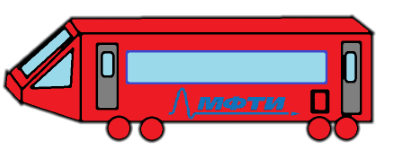
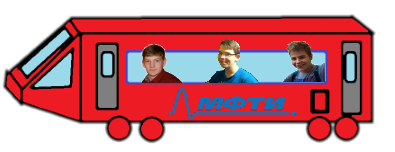
Add conductor

Changed region(s): [[0.5165, 0.2632, 0.6684, 0.5526], [0.3342, 0.2895, 0.4861, 0.5526], [0.6987, 0.2632, 0.8203, 0.5526]]

diff --git a/Game/Game/Code/Main.cpp b/Game/Game/Code/Main.cpp
@@ -10,14 +10,19 @@
 #include "Objects//Background.h"
 #include "Objects//Train.h"
 #include "Objects//Hero.h"
+#include "Objects//Conductor.h"
 
 int main()
 {
 	Engine engine;
 
-	engine.addObject(new Background (sf::Sprite(*(texturesMap["Background"]))));
+	//engine.addObject(new Background (sf::Sprite(*(texturesMap["Background"]))));
+	engine.addObject(new Background(Vector(-100, 0), Vector(-200, 0), 1000, sf::Sprite(*(texturesMap["Background"])), 0));
 	engine.addObject(new Train(Vector(1100, 250), Vector(-200, 0), 100, sf::Sprite(*(texturesMap["Train"])), 5));
 	engine.addObject(new Train(Vector(1000, 250), Vector(-200, 0), 100, sf::Sprite(*(texturesMap["Train"])), 3));
+	engine.addObject(new Conductor(Vector(1000, 250), Vector(-200, 0), 100, sf::Sprite(*(texturesMap["Conductor"])), 1));
+	
+
 	engine.run();
 	
 	system("pause");

diff --git a/Game/Game/Includes/Objects/Conductor.h b/Game/Game/Includes/Objects/Conductor.h
@@ -2,13 +2,35 @@
 
 #include "Objects\Barrier.h"
 
-class Conductor : public Barrier
+class Conductor : public Object
 {
 public:
+	Conductor(Vector coordinate, Vector velocity, size_t weight, sf::Sprite sprite, size_t level);
+
 	void Control();
-	void Logic();
-	void Physic();
+	int  Logic();
 	void Draw();
 private:
 
 };
+
+Conductor::Conductor(Vector coordinate, Vector velocity, size_t weight, sf::Sprite sprite, size_t level) :
+	Object(coordinate, velocity, weight, sprite, level)
+{}
+
+void Conductor::Control()
+{
+
+}
+
+int Conductor::Logic()
+{
+
+	return 0;
+}
+
+void Conductor::Draw()
+{
+	sprite_.setPosition( (float) coordinate_.GetX(), (float)coordinate_.GetY());
+	engine_->getEngineWindow()->draw(sprite_);
+}

diff --git a/Game/Game/Includes/Objects/Background.h b/Game/Game/Includes/Objects/Background.h
@@ -6,6 +6,7 @@ class Background : public Object
 {
 public:
 	Background(sf::Sprite sprite);
+	Background(Vector coordinate, Vector velocity, size_t weight, sf::Sprite sprite, size_t level);
 	~Background();
 	void Control();
 	int Logic();
@@ -13,6 +14,10 @@ public:
 private:
 
 };
+
+Background::Background(Vector coordinate, Vector velocity, size_t weight, sf::Sprite sprite, size_t level) :
+	Object(coordinate, velocity, weight, sprite, level)
+{}
 
 Background::Background(sf::Sprite sprite) :
 	Object(Vector(-100, 0), Vector(-200, 0), 1000, sprite, 0)

diff --git a/Game/Game/Includes/Engine.h b/Game/Game/Includes/Engine.h
@@ -52,6 +52,12 @@ int loadTexture()
 
 		texturesMap["Train"] = train;
 	}
+	{
+		sf::Texture *conductor = new sf::Texture;
+		conductor->loadFromFile("Resourses/Conductor.png");
+
+		texturesMap["Conductor"] = conductor;
+	}
 
 	return 0;
 }

diff --git a/Game/Game/Includes/Objects/Barrier.h b/Game/Game/Includes/Objects/Barrier.h
@@ -6,8 +6,8 @@ class Barrier : public Object
 {
 public:
 	void Control();
-	void Logic();
-	void Physic();
+	int Logic();
+	//void Physic();
 	void Draw();
 private:
 
